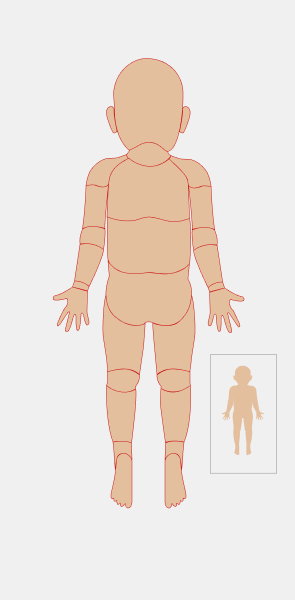
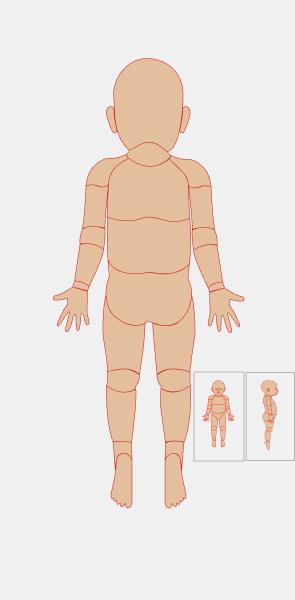
Changes in Child

Changed region(s): [[0.6407, 0.6, 0.9458, 0.78], [0.9763, 0.63, 1.0, 0.78]]

diff --git a/Child.html b/Child.html
@@ -89,7 +89,7 @@
 <div id="organswrapper">
     <div id="frt_base">
       <svg version="1.1" width="295" height="600" viewBox="0 0 295 600" fill="none" xmlns="http://www.w3.org/2000/svg"  xml:space="preserve">
-          <image overflow="visible" width="295" height="600" xlink:href="assets/images/kido.png"></image>
+          <image overflow="visible" width="295" height="600" xlink:href="assets/images/kidofront.png"></image>
           
                <path id="frt_1"  class="head"        fill="transparent" stroke="#CA1818" stroke-width="0.5" vector-effect="non-scaling-stroke" d="M109.5 93C111.9 68.2 131 58.5 142 58.5C166 58.5 179 76 179 93C179 106.6 178.5 108 178.5 108.5C178.5 109 179.204 157.5 146.5 157.5C115.838 157.5 110.167 126 110.5 108.5L109.5 93Z" />
                <path id="frt_2"  class="eye-lt"      fill="transparent" stroke="#CA1818" stroke-width="0.5" vector-effect="non-scaling-stroke" d="M152 114.615C153.213 111.509 157.512 106.85 165 113.062C163.093 115.65 157.824 119.584 152 114.615Z" />
@@ -125,8 +125,8 @@
                <path id="frt_33" class="foot-rt"     fill="transparent" stroke="#CA1818" stroke-width="0.5" vector-effect="non-scaling-stroke" d="M108 489.001C110.8 477.001 111.5 465.834 111.5 462.001C115.167 461.167 123.7 460.101 128.5 462.501V500.501C128.167 502.167 126.9 505.601 124.5 506.001C122 506.001 120.833 504.501 120.5 503.001C120.5 503.167 120.1 503.701 118.5 504.501C116.9 505.301 116.5 502.834 116.5 501.501C116.333 501.667 115.7 502.101 114.5 502.501C113.3 502.901 113 500.334 113 499.001C112.833 499.167 112.2 499.501 111 499.501C109.8 499.501 109.833 497.501 110 496.501L108 497.001C106.4 496.601 107.333 491.501 108 489.001Z" />
                <path id="frt_34" class="foot-lt"     fill="transparent" stroke="#CA1818" stroke-width="0.5" vector-effect="non-scaling-stroke" d="M180.5 488.972C177.7 476.972 177 465.805 177 461.972C173.333 461.138 164.8 460.072 160 462.472V500.472C160.333 502.138 161.6 505.572 164 505.972C166.5 505.972 167.667 504.472 168 502.972C168 503.138 168.4 503.672 170 504.472C171.6 505.272 172 502.805 172 501.472C172.167 501.638 172.8 502.072 174 502.472C175.2 502.872 175.5 500.305 175.5 498.972C175.667 499.138 176.3 499.472 177.5 499.472C178.7 499.472 178.667 497.472 178.5 496.472L180.5 496.972C182.1 496.572 181.167 491.472 180.5 488.972Z" />
                
-               <rect class="go_bck go_bck_frontback"   x="210.5" y="354.5" width="66.0408" height="118.891" stroke="black" stroke-opacity="0.2"  vector-effect="non-scaling-stroke"/>
-               <rect class="go_side go_side_frontback" x="290.5" y="354.5" width="66.0408" height="118.891" stroke="black" stroke-opacity="0.2" style="stroke: black;" vector-effect="non-scaling-stroke"/>
+               <rect class="go_bck go_bck_frontback"    x="188" y="367.5" width="53.04" height="100.89" stroke="black" stroke-opacity="0.2"  vector-effect="non-scaling-stroke"/>
+               <rect class="go_side go_side_frontback"  x="242" y="367.5" width="53.04" height="100.89" stroke="black" stroke-opacity="0.2"  vector-effect="non-scaling-stroke"/>
 
       </svg>
     </div>
@@ -134,7 +134,8 @@
     <!-- #################  SIDE VIEW ###################### -->
     <div id="Side_base" id="bck_base">
       <svg width="295"    height="600" viewBox="0 0 295 600" fill="none" xmlns="http://www.w3.org/2000/svg">
-        <rect width="295" height="600" fill="#F0F0F0"/>
+        <image overflow="visible" width="295" height="600" xlink:href="assets/images/Kidoside.png"></image>
+        <!-- <rect width="295" height="600" fill="#F0F0F0"/> -->
         <path id="side_1"  class="head"         d="M187.693 85.6659C185.452 68.7826 160.016 55.2353 143.306 54.5357C118.937 51.2128 105.012 64.1546 99.0937 71.1502C94.3591 76.7466 88.4119 92.081 90.3904 105.953C91.9132 116.63 99.6159 128.339 102.053 130.962C104.002 133.061 109.247 139.532 111.626 142.505C117.719 145.653 165.761 160.344 171.679 159.994C180.312 159.434 181.509 158.139 182.297 157.545C182.993 157.021 183.367 156.008 183.863 154.922C185.345 151.679 183.341 146.527 184.734 145.828C186.126 145.128 186.474 145.303 184.734 144.953C183.566 144.719 180.556 142.505 180.556 142.505L186.3 138.482L188.911 136.734C188.911 136.734 188.389 131.837 188.389 131.137C188.389 130.577 190.188 130.146 191 130.088C189.259 128.339 186.3 130.612 185.604 129.388C184.609 127.639 187.171 124.491 185.604 120.119C181.06 107.436 190.13 104.029 187.693 85.6659Z" fill="#E4BF9E" stroke="#CA1818" stroke-width="0.5"/>
         <path id="side_2"  class="eye-lt"       d="M175 114.408L183 110C182.636 111.197 180.834 111.971 180.273 113.592C179.704 115.236 181.909 118 180.273 118C178.964 118 176.152 115.66 175 114.408Z" fill="#E4BF9E" stroke="#CA1818" stroke-width="0.5"/>
         <path id="side_5"  class="ear-rt"       d="M137.324 106.087C140.978 106.086 143.414 113.298 141.848 114.355C141.111 114.852 139.586 114.53 139.586 114.53L139.412 114.698L139.171 114.835C138.391 115.291 135.958 116.83 135.411 118.576C135.326 118.846 135.232 118.996 135.237 119.279C135.253 120.346 137.846 118.576 137.846 118.576H139.412L140.456 118.927L141.152 119.279L141.326 124.732L140.804 125.788C138.484 125.612 133.636 124.205 132.801 119.983C131.966 115.761 135.237 115.175 136.976 115.409L137.846 115.585L139.171 114.835C139.323 114.746 139.412 114.698 139.412 114.698L139.586 114.53L140.108 111.539C139.528 110.074 137.603 107.353 134.541 108.197C131.479 109.042 130.539 112.771 130.539 112.771C130.539 112.771 129.605 117.083 130.017 119.807C131.122 127.106 147.241 133 143.414 133H141.326C126.016 132.296 125.146 112.242 128.799 108.725C131.729 105.904 135.758 105.852 137.324 106.087Z" fill="#E4BF9E"/>
@@ -156,17 +157,18 @@
         <path id="side_33" class="foot-rt"      d="M118.021 467.983C120.354 467.422 121.622 465.76 121.965 465C127.316 468.51 137.57 473.949 141 477.283V483.776C141 485.004 138.942 512.203 138.599 512.905C138.325 513.467 138.714 518.403 138.942 520.802L139.285 523.96C139.285 524.37 138.805 525.329 136.884 525.89C134.964 526.452 134.255 524.721 134.141 523.785C133.969 523.96 133.386 524.241 132.426 523.96C131.466 523.679 131.797 522.088 132.083 521.328C131.969 521.386 131.603 521.468 131.054 521.328C130.505 521.188 130.711 519.515 130.883 518.696C130.654 518.988 130.025 519.398 129.339 518.696C128.653 517.994 128.825 516.649 128.996 516.064C128.882 516.239 128.447 516.45 127.624 515.888C126.801 515.327 126.938 513.665 127.11 512.905L125.738 509.396C123.966 503.371 120.422 490.935 120.422 489.391C120.422 487.847 116.307 480.91 114.249 477.634C113.734 476.64 112.774 474.195 113.048 472.37C113.391 470.089 115.106 468.685 118.021 467.983Z" fill="#E4BF9E" stroke="#CA1818" stroke-width="0.5"/>
         
         <!-- Back -->
-        <path id="bck_3"  class="back" d="M109.204 169.704C111.845 164.467 113 161.5 113 161.5L122 164.5C120.955 166.187 119.557 168.015 119.029 170.25C118.501 172.484 118.204 177.057 118.534 179.676L119.689 185.785L120.515 200.099L122.5 219.998C122.5 219.998 116.017 218.891 112.922 217.38C109.806 215.858 106.155 212.667 106.155 210.921C106.155 209.525 105 196.433 105 194.862C105 187.182 106.039 175.98 109.204 169.704Z" fill="#E4BF9E" stroke="#CA1818" stroke-width="0.5"/> 
+        <path id="bck_3"   class="back"         d="M109.204 169.704C111.845 164.467 113 161.5 113 161.5L122 164.5C120.955 166.187 119.557 168.015 119.029 170.25C118.501 172.484 118.204 177.057 118.534 179.676L119.689 185.785L120.515 200.099L122.5 219.998C122.5 219.998 116.017 218.891 112.922 217.38C109.806 215.858 106.155 212.667 106.155 210.921C106.155 209.525 105 196.433 105 194.862C105 187.182 106.039 175.98 109.204 169.704Z" fill="#E4BF9E" stroke="#CA1818" stroke-width="0.5"/> 
         <!-- Loin -->
-        <path  id="bck_4"  class="loin"d="M114.858 261.637C115.921 257.263 110.22 226.288 106.5 212C109.5 216.5 118.248 219.359 122.5 220L123.007 226.646L125.132 237.144L127.435 249.39C128.853 268.81 136.116 281.407 134.344 279.482C132.927 277.943 118.046 277.091 110.783 276.858L112.909 271.959C113.263 270.443 113.726 266.292 114.858 261.637Z" fill="#E4BF9E" stroke="#CA1818" stroke-width="0.5"/>
+        <path id="bck_4"   class="loin"         d="M114.858 261.637C115.921 257.263 110.22 226.288 106.5 212C109.5 216.5 118.248 219.359 122.5 220L123.007 226.646L125.132 237.144L127.435 249.39C128.853 268.81 136.116 281.407 134.344 279.482C132.927 277.943 118.046 277.091 110.783 276.858L112.909 271.959C113.263 270.443 113.726 266.292 114.858 261.637Z" fill="#E4BF9E" stroke="#CA1818" stroke-width="0.5"/>
         <!--Buttocks  -->
-        <path  id="bck_5"  class="buttocks" d="M100.399 308.673C98.0419 295.394 106.697 281.242 111.319 276C123.453 276.175 131.831 277.689 134.547 278.621C137.736 284.072 138.418 286.716 138.36 287.357L141.133 295.394L142 297.665L139.227 305.003L138.36 314.438L135.413 323.349C130.282 335.23 118.484 333.716 113.053 331.386C108.373 328.765 103.346 325.271 100.399 308.673Z" fill="#E4BF9E" stroke="#CA1818" stroke-width="0.5"/>
+        <path id="bck_5"   class="buttocks"     d="M100.399 308.673C98.0419 295.394 106.697 281.242 111.319 276C123.453 276.175 131.831 277.689 134.547 278.621C137.736 284.072 138.418 286.716 138.36 287.357L141.133 295.394L142 297.665L139.227 305.003L138.36 314.438L135.413 323.349C130.282 335.23 118.484 333.716 113.053 331.386C108.373 328.765 103.346 325.271 100.399 308.673Z" fill="#E4BF9E" stroke="#CA1818" stroke-width="0.5"/>
         <!-- Trapezius -->
-        <path id="side_35" class="Trapezius"   d="M113 161.5L115.552 155C115.552 155 115.887 155.733 116.242 156.079C116.683 156.507 117.623 156.798 117.623 156.798C117.623 156.798 133.326 158.896 135.742 159.674C142.912 161.983 149.049 165.483 152.5 168L147.304 171C139.366 162.011 132 160.933 131.256 160.933C127.389 160.933 123.412 162.758 121.973 164.376L113 161.5Z" fill="#E4BF9E" stroke="#CA1818" stroke-width="0.5"/> 
+        <path id="side_35" class="Trapezius"    d="M113 161.5L115.552 155C115.552 155 115.887 155.733 116.242 156.079C116.683 156.507 117.623 156.798 117.623 156.798C117.623 156.798 133.326 158.896 135.742 159.674C142.912 161.983 149.049 165.483 152.5 168L147.304 171C139.366 162.011 132 160.933 131.256 160.933C127.389 160.933 123.412 162.758 121.973 164.376L113 161.5Z" fill="#E4BF9E" stroke="#CA1818" stroke-width="0.5"/> 
         <!-- Wrist -->
         <path id="side_21" class="wrist-rt"     d="M140.764 296L138 287.552L156.136 286L157 294.103H155.273C150.203 294.103 143.585 294.736 140.764 296Z" fill="#E4BF9E" stroke="#CA1818" stroke-width="0.5"/>
-        
-        
+       
+       
+       
         <!-- <path id="side_18" class="elbow-lt"     d="M152.952 236.079C138.836 220.965 128.436 230.474 125 237.119L126.398 244.572L126.922 248.905C136.355 255.491 148.817 250.118 154 246.132L153.476 242.145L152.952 236.079Z" fill="#E4BF9E" stroke="#CA1818" stroke-width="0.5"/> -->
         <!-- <path  id="side_21" class="wrist-rt"    d="M140.764 296L138 287.552L156.136 286L157 294.103H155.273C150.203 294.103 143.585 294.736 140.764 296Z" fill="#E4BF9E" stroke="#CA1818" stroke-width="0.5"/> -->
         <!-- <path id="side_21" class="wrist-rt" d="M139.586 114.53L140.108 111.539C139.528 110.074 137.603 107.353 134.541 108.197C131.479 109.042 130.539 112.771 130.539 112.771C130.539 112.771 129.605 117.083 130.017 119.807C131.122 127.106 147.241 133 143.414 133C142.598 133 141.326 133 141.326 133C126.016 132.296 125.146 112.242 128.799 108.725C131.729 105.904 135.758 105.852 137.324 106.087C140.978 106.086 143.414 113.298 141.848 114.355C141.111 114.852 139.586 114.53 139.586 114.53ZM139.586 114.53L139.412 114.698M139.412 114.698C139.412 114.698 136.065 116.49 135.411 118.576C135.326 118.846 135.232 118.996 135.237 119.279C135.253 120.346 137.846 118.576 137.846 118.576H139.412L140.456 118.927L141.152 119.279L141.326 124.732L140.804 125.788C138.484 125.612 133.636 124.205 132.801 119.983C131.966 115.761 135.237 115.175 136.976 115.409L137.846 115.585L139.412 114.698Z" stroke="#CA1818" stroke-width="0.5"/> -->
@@ -174,8 +176,10 @@
         <path  d="M140.764 296L138 287.552L156.136 286L157 294.103H155.273C150.203 294.103 143.585 294.736 140.764 296Z" fill="#E4BF9E" stroke="#CA1818" stroke-width="0.5"/> -->
         <!-- <path  d="M171.723 308C171.723 308 181.155 291.175 181 291C175.508 288.831 156.354 283 156 283C155.646 283 157.5 295 157.5 295C157.642 300.878 167.177 306.134 171.723 308Z" stroke="#CA1818" stroke-width="0.5"/> -->
 
-        <rect class="go_frt go_frt_frontback" x="210.5" y="354.5" width="66.04" height="118.89" stroke="black" stroke-opacity="0.2"  vector-effect="non-scaling-stroke" style="stroke: red;"/>
-        <rect class="go_bck go_bck_frontback" x="290.5" y="354.5" width="66.0408" height="118.891" stroke="black" stroke-opacity="0.2" style="stroke: red;"  vector-effect="non-scaling-stroke"/>
+        
+        
+        <rect class="go_frt go_frt_frontback"  x="168" y="367.5" width="54.04" height="100.89" stroke="black" stroke-opacity="0.2"  vector-effect="non-scaling-stroke" />
+        <rect class="go_bck go_bck_frontback"  x="229" y="367.5" width="54.04" height="100.89" stroke="black" stroke-opacity="0.2" style="stroke: red;"  vector-effect="non-scaling-stroke"/>
       </svg>
     </div>  
 
@@ -184,7 +188,7 @@
     <div id="bck_base">
       <svg version="1.1" width="295" height="600" viewBox="0 0 295 600" fill="none" xmlns="http://www.w3.org/2000/svg">
         <image overflow="visible" width="295" height="600" xlink:href="assets/images/kidoback.png"></image>
-        <path id="bck_1"  class="head-back" fill="transparent" stroke="#CA1818" stroke-width="0.5" vector-effect="non-scaling-stroke" d="M113.5 93C115.9 68.2 135 58.5 146 58.5C170 58.5 183 76 183 93C183 106.6 182.5 108 182.5 108.5C182.5 108.891 180 149.5 167.5 151.5C164.5 151.5 159.281 142.5 150 142.5C140.719 142.5 137 148 129 150.104C116.955 139.714 114.268 120.703 114.5 108.5L113.5 93Z" fill="#E4BF9E" stroke="#CA1818" stroke-width="0.5"/>
+        <path id="bck_1"  class="head-back"        d="M113.5 93C115.9 68.2 135 58.5 146 58.5C170 58.5 183 76 183 93C183 106.6 182.5 108 182.5 108.5C182.5 108.891 180 149.5 167.5 151.5C164.5 151.5 159.281 142.5 150 142.5C140.719 142.5 137 148 129 150.104C116.955 139.714 114.268 120.703 114.5 108.5L113.5 93Z" fill="#E4BF9E" stroke="#CA1818" stroke-width="0.5"/>
         <path id="bck_2"  class="neck-back"        d="M126.499 154.501C128.099 153.301 129.333 150.667 129.5 150C137.001 147.499 140.5 142.5 148.5 142.5C159.5 142.5 161.5 149 167.499 151.501C168.575 153.692 168.598 154.534 171 155.501C169 160.001 159.3 166.901 148.5 166.501C135 166.001 124.499 156.001 126.499 154.501Z" fill="#E4BF9E" stroke="#CA1818" stroke-width="0.5"/>
         <path id="bck_3"  class="back"             d="M109.037 180.76C111.27 164.5 127 160.5 128.391 158.002C134.503 163.059 152.211 173.618 169.5 158.5C171.5 163 185.976 171.315 188 182C188.461 184.434 189.16 207.226 189.5 218.689C170.655 225.264 165.985 220.289 157.932 218.689C155.385 218.184 154.721 217.172 150.292 217.172C145.863 217.172 142.143 218.184 141.124 218.689C140.106 219.195 125.335 224.758 107 217.172C107.407 206.248 108.019 188.177 109.037 180.76Z" fill="#E4BF9E" stroke="#CA1818" stroke-width="0.5"/>
         <path id="bck_4"  class="loin"             d="M108.086 259.633C106.989 253.913 107.333 227.69 107.5 217.006C112.833 219.173 127 223 138 219.5C140.167 218.667 145.4 217 149 217C152.6 217 160.833 219.167 161.5 219.5C165.5 220.5 166.45 220.69 168 221C170.5 221.5 175 223.494 189.5 218.5C191.321 224.769 190.5 259.5 189.5 263.5C188.5 267.5 177.521 271.66 173.5 273C167.5 275 151.5 272.5 149 272.5C146.5 272.5 134 274.994 125 273C120.75 272.058 109.5 267.006 108.086 259.633Z" fill="#E4BF9E" stroke="#CA1818" stroke-width="0.5"/>
@@ -212,12 +216,13 @@
         <path id="bck_26" class="sole-rt"          d="M185.128 490.233C182.378 477.692 181.495 474.5 180.495 459.5C176.995 448.499 164.495 454 164.995 462.538V502.252C165.323 503.994 165.868 508 168.924 508C171.379 508 171.487 504.865 171.815 503.297C171.815 503.471 173.245 505.596 174.816 506.432C176.387 507.268 176.78 504.69 176.78 503.297C176.944 503.471 177.566 503.924 178.744 504.342C179.923 504.76 180.217 502.078 180.217 500.684C180.381 500.858 181.003 501.207 182.181 501.207C183.36 501.207 183.163 499.219 183.163 498.071C183.163 498.071 183.512 499.116 185.128 498.594C186.744 498.071 185.783 492.846 185.128 490.233Z" fill="#E4BF9E" stroke="#CA1818" stroke-width="0.5"/>
         <path id="bck_27" class="sole-lt"          d="M111.868 490.233C114.617 477.692 115.5 474.5 116.5 459.5C120 448.499 132.5 454 132 462.538V502.252C131.673 503.994 131.128 508 128.072 508C125.617 508 125.508 504.865 125.181 503.297C125.181 503.471 123.751 505.596 122.18 506.432C120.608 507.268 120.216 504.69 120.216 503.297C120.052 503.471 119.43 503.924 118.251 504.342C117.073 504.76 116.778 502.078 116.778 500.684C116.615 500.858 115.993 501.207 114.814 501.207C113.636 501.207 113.832 499.219 113.832 498.071C113.832 498.071 113.484 499.116 111.868 498.594C110.252 498.071 111.213 492.846 111.868 490.233Z" fill="#E4BF9E" stroke="#CA1818" stroke-width="0.5"/>
         
-        <rect class="go_frt go_frt_frontback" x="210.5" y="354.5" width="66.04" height="118.89" stroke="black" stroke-opacity="0.2"  vector-effect="non-scaling-stroke"/>
-        <rect class="go_side go_side_frontback" x="290.5" y="354.5" width="66.0408" height="118.891" stroke="black" stroke-opacity="0.2" style="stroke: red;" vector-effect="non-scaling-stroke"/>
+        <rect class="go_frt go_frt_frontback"       x="192" y="368.5" width="52.04" height="89.89" stroke="black" stroke-opacity="0.2"  vector-effect="non-scaling-stroke"/>
+        <rect class="go_side go_side_frontback"     x="246" y="370.5" width="52.04" height="89.89" stroke="black" stroke-opacity="0.2"  vector-effect="non-scaling-stroke"/>
+       
         <!-- EAR BACK IF NEEDED -->
         <!-- <path d="M186 106.5C184.4 106.1 183 108 182.5 109C183.3 112.6 180.833 125.5 179.5 131.5C180.167 132 181.7 133 182.5 133C183.5 133 184.5 132 188.5 120.5C192.5 109 188 107 186 106.5Z" fill="#E4BF9E" stroke="#CA1818" stroke-width="0.5"/>
-       <path d="M110.604 106.5C112.204 106.1 113.604 108 114.104 109C113.304 112.6 115.77 125.5 117.104 131.5C116.437 132 114.904 133 114.104 133C113.104 133 112.104 132 108.104 120.5C104.104 109 108.604 107 110.604 106.5Z" fill="#E4BF9E" stroke="#CA1818" stroke-width="0.5"/> -->
-       <!-- <path  d="M149 272.594C144.825 272.985 141.415 273.275 139.5 273.5C126 274 116.104 272.808 108 261L109.308 276.093C93.1804 322.863 139.5 330.5 145.09 322.863C146.5 321.5 150.5 321.5 153.153 322.863C187.928 336.5 198.007 294.197 187.928 279.11L189.44 263.52C187.272 267.721 175 276 158.5 273.5M149 272.594C151.74 272.337 156.5 273.309 158.5 273.5M149 272.594L158.5 273.5" stroke="#CA1818" stroke-width="0.5"/> -->
+        <path d="M110.604 106.5C112.204 106.1 113.604 108 114.104 109C113.304 112.6 115.77 125.5 117.104 131.5C116.437 132 114.904 133 114.104 133C113.104 133 112.104 132 108.104 120.5C104.104 109 108.604 107 110.604 106.5Z" fill="#E4BF9E" stroke="#CA1818" stroke-width="0.5"/> -->
+        <!-- <path  d="M149 272.594C144.825 272.985 141.415 273.275 139.5 273.5C126 274 116.104 272.808 108 261L109.308 276.093C93.1804 322.863 139.5 330.5 145.09 322.863C146.5 321.5 150.5 321.5 153.153 322.863C187.928 336.5 198.007 294.197 187.928 279.11L189.44 263.52C187.272 267.721 175 276 158.5 273.5M149 272.594C151.74 272.337 156.5 273.309 158.5 273.5M149 272.594L158.5 273.5" stroke="#CA1818" stroke-width="0.5"/> -->
         
         
           
